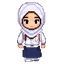
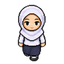
feat(game): apply aisyah_putri_perframe spritesheet and individual textures

Changed region(s): [[0.25, 0.0312, 0.7188, 0.9688]]

diff --git a/src/game/scenes/BootScene.ts b/src/game/scenes/BootScene.ts
@@ -71,6 +71,15 @@ export class BootScene extends Phaser.Scene {
         frameHeight: 64,
       });
     });
+
+    // Aisyah Putri Individual Per-Frame Textures
+    const aisyahDirs = ['down', 'left', 'right', 'up'];
+    aisyahDirs.forEach(dir => {
+      for (let i = 1; i <= 4; i++) {
+        const frameKey = `aisyah_${dir}_${i}`;
+        this.load.image(frameKey, `/assets/game/characters/aisyah_putri_perframe/${frameKey}.png`);
+      }
+    });
   }
 
   create(): void {

diff --git a/public/assets/game/characters/aisyah_putri_perframe/README.md b/public/assets/game/characters/aisyah_putri_perframe/README.md
@@ -1,0 +1,14 @@
+# Aisyah Putri — Phaser 3 individual frames
+
+- 16 individual PNG files
+- Canvas per frame: 64 × 64 px (RGBA, transparent)
+- Directions: down, left, up, right
+- 4 frames per direction
+
+## Filenames
+- aisyah_down_1.png … aisyah_down_4.png
+- aisyah_left_1.png … aisyah_left_4.png
+- aisyah_up_1.png … aisyah_up_4.png
+- aisyah_right_1.png … aisyah_right_4.png
+
+In Phaser, load each frame as a separate texture or combine them into a spritesheet later.
